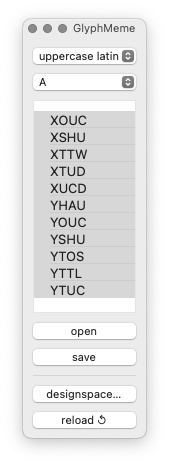
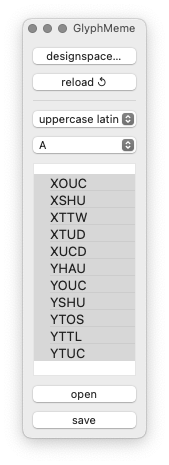
updating the docs

Changed region(s): [[0.1775, 0.0903, 0.8284, 0.8129], [0.2663, 0.843, 0.6805, 0.9333]]

diff --git a/Lib/xTools4/dialogs/variable/GlyphMeme.py b/Lib/xTools4/dialogs/variable/GlyphMeme.py
@@ -11,6 +11,7 @@ from fontTools.designspaceLib import DesignSpaceDocument
 from fontTools.ufoLib.glifLib import GlyphSet
 from xTools4.modules.linkPoints2 import readMeasurements
 from xTools4.modules.measurements import FontMeasurements, GlyphMeasurements
+from xTools4.modules.xproject import measurementsPathKey, smartSetsPathKey
 from xTools4.dialogs.variable.old.TempEdit import setupNewFont, splitall
 
 
@@ -18,9 +19,6 @@ glyphSetPathKey        = 'com.xTools4.tempEdit.glyphSetPath'
 tempEditModeKey        = 'com.xTools4.tempEdit.mode'
 fontMeasurementsKey    = 'com.xTools4.measurements.font'
 defaultMeasurementsKey = 'com.xTools4.measurements.default'
-
-# measurementsPathKey    = 'com.xTools4.xProject.measurementsPath'
-# smartSetsPathKey       = 'com.xTools4.xProject.smartSetsPath'
 
 
 class GlyphMemeController(ezui.WindowController):
@@ -37,6 +35,11 @@ class GlyphMemeController(ezui.WindowController):
     glyphGroups = {}
 
     content = """
+    ( designspace…  )  @getDesignspaceButton
+    ( reload ↺ )       @reloadButton
+
+    ---
+
     (groups ...)  @groupSelector
     (glyphs ...)  @glyphSelector
 
@@ -44,11 +47,6 @@ class GlyphMemeController(ezui.WindowController):
 
     ( open )  @openButton
     ( save )  @saveButton
-
-    ---
-
-    ( designspace…  )  @getDesignspaceButton
-    ( reload ↺ )       @reloadButton
 
     """
 

diff --git a/Lib/xTools4/modules/xproject.py b/Lib/xTools4/modules/xproject.py
@@ -1,8 +1,8 @@
-# WARNING: THIS IS A WORK-IN-PROGRESS DRAFT, NOT USABLE YET
+# WARNING: THIS IS A WORK-IN-PROGRESS DRAFT, NOT USABLE YET!
 
-measurementsPathKey = 'com.xTools4.xProject.measurementsPath'
-smartSetsPathKey    = 'com.xTools4.xProject.smartSetsPath'
-smartSetsPathKey    = 'com.xTools4.xProject.glyphConstructionsPath'
+measurementsPathKey       = 'com.xTools4.xProject.measurementsPath'
+smartSetsPathKey          = 'com.xTools4.xProject.smartSetsPath'
+glyphConstructionsPathKey = 'com.xTools4.xProject.glyphConstructionsPath'
 
 class xProject:
     '''

diff --git a/Lib/xTools4/__init__.py b/Lib/xTools4/__init__.py
@@ -1,1 +1,1 @@
-__version__ = "0.2.4"
+__version__ = "0.2.5"

diff --git a/docs/_reference/variable/glyph-meme.md b/docs/_reference/variable/glyph-meme.md
@@ -14,22 +14,19 @@ A tool to open all parametric sources of a single glyph in a temporary font for 
 ![]({{ site.url }}/images/variable/GlyphMeme.png){: .img-fluid }
 </div>
 <div class='col-8' markdown='1'>
-get designspace…
+designspace…
 : Open a dialog to select a designspace file.
 
-get measurements…
-: Open a dialog to select a measurements file.
-
-get smart sets…
-: Open a dialog to select a smart sets file.
+reload
+: Reload the previously selected designspace file.
 
 glyph group
 : Select a glyph group from the list (imported from smart sets).
 
 glyph name
-: Select a glyph for which to show the memes.
+: Select a glyph from which to load parameters (meme).
 
-parameters (meme)
+glyph parameters (meme)
 : A list of all parameters involved in the variations of the selected glyph.
 
 open
@@ -37,10 +34,10 @@ open
 
 save
 : Export the selected glyphs back into the UFO sources from where they came from.
-
 </div>
 </div>
 
+<!-- move steps to a tutorial:
 
 Step-by-step
 ------------
@@ -52,6 +49,8 @@ Step-by-step
 5. Click the “open” button to import glyphs from the corresponding sources into a temporary font.
 6. Multiple glyphs can be opened this way, with one temporary font for each.
 7. Edit glyphs as needed, and then use the “save” button to export the selected glyphs back to their UFOs.
+
+-->
 
 
 Example

diff --git a/docs/_reference/variable/measurements.md b/docs/_reference/variable/measurements.md
@@ -12,17 +12,11 @@ A tool to create and visualize font- and glyph-level measurements.
 
 ![]({{ site.url }}/images/variable/Measurements_font.png){: .img-fluid}
 
-load…
-: Load measurement data from an external JSON file into the UI.
+designspace…
+: Load a designspace file and linked measurements data into the UI.
 
-save…
-: Save the current measurement data to an external JSON file.
-
-default…
-: Select and load the default font source for comparison.
-
-PDF…
-: Save a visual overview of all measurements to a PDF file.
+save
+: Save the measurements data back to the external JSON file from which it was loaded.
 
 italic correction
 : Enable or disable italic angle and offset correction.

diff --git a/docs/_reference/variable/glyph-validator.md b/docs/_reference/variable/glyph-validator.md
@@ -15,11 +15,11 @@ A tool to validate glyphs in the current font against glyphs from another source
 ![]({{ site.url }}/images/variable/GlyphValidator.png){: .img-fluid}
 </div>
 <div class='col-8' markdown='1'>
-get default…
-: Open a dialog to select the source to check against the _current font_ 
+designspace…
+: Open a dialog to select a designspace file.
 
 reload
-: Reload the selected source from disk (in case it has changed).
+: Reload the previously selected designspace file.
 
 checks
 : Select which glyph attributes to check and report on.

diff --git a/docs/changelog.md b/docs/changelog.md
@@ -9,6 +9,12 @@ All notable changes to xTools4 are documented in this file.
 {: .lead }
 
 
+0.2.5
+-----
+
+- <span class='badge rounded-0'>Changed</span> Making designspace files the single entry point for variable tools.
+
+
 0.2.4
 -----
 
